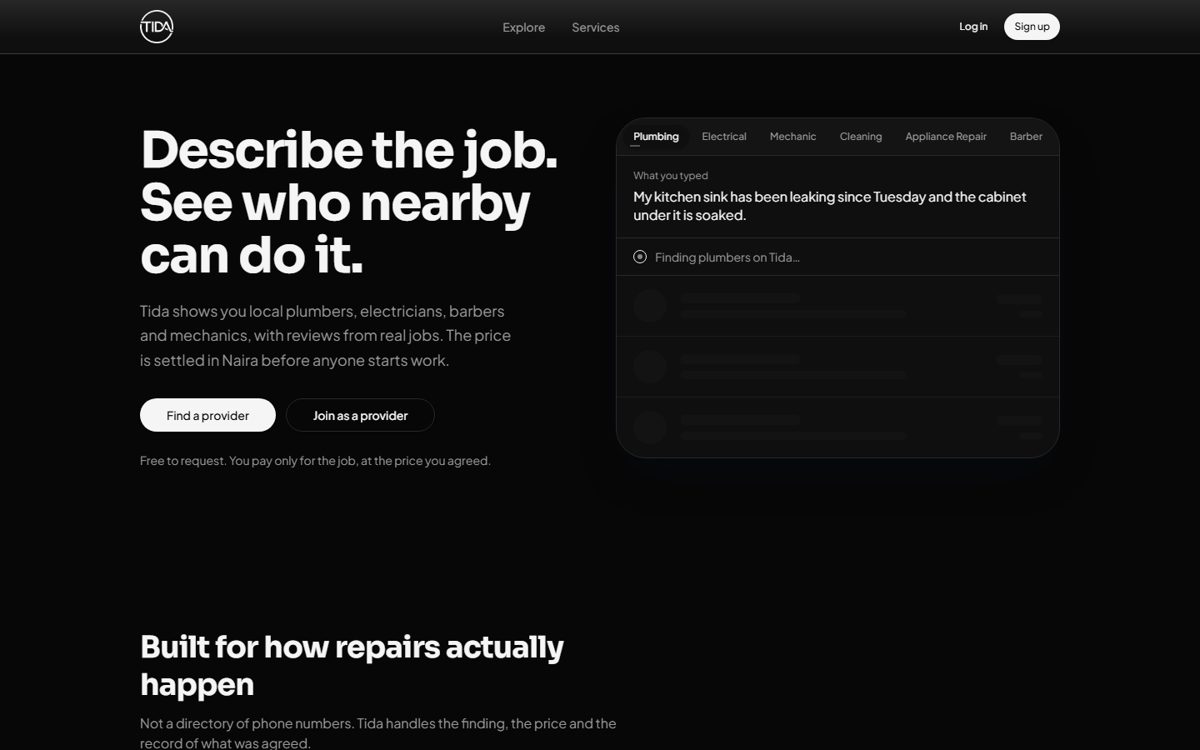
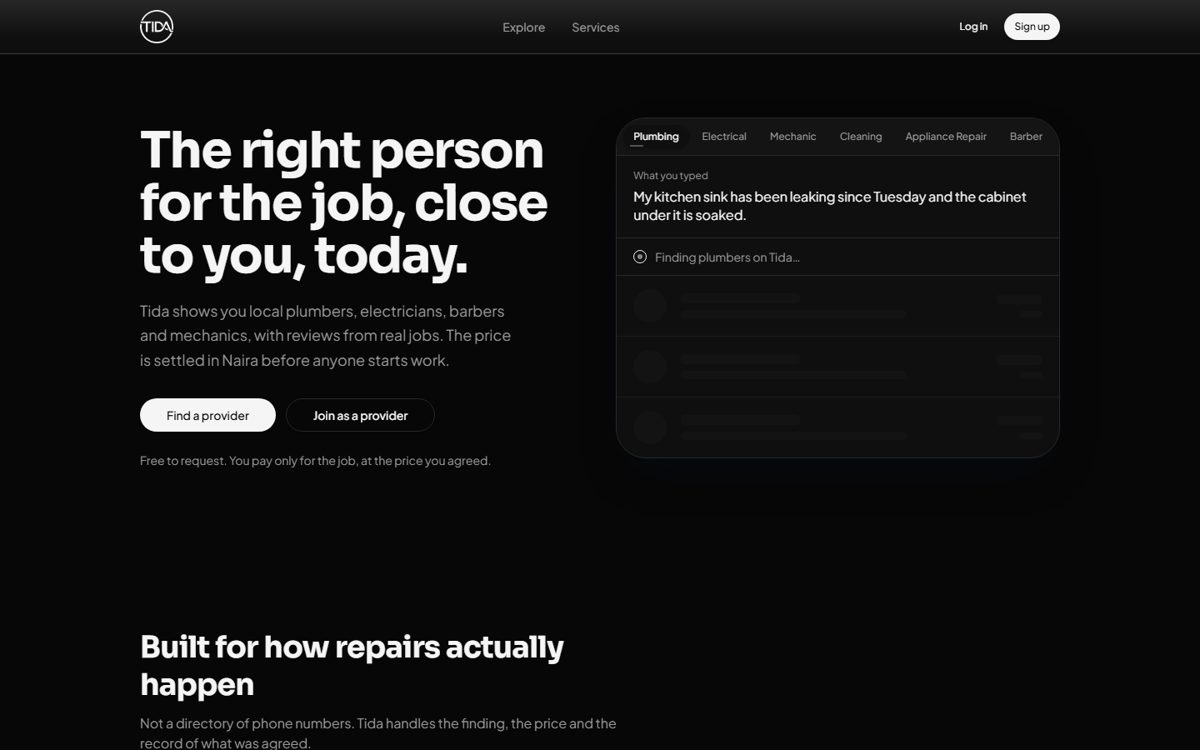
Sync Tida tagline and screenshot

Changed region(s): [[0.0925, 0.1533, 0.4625, 0.3987]]

diff --git a/src/data/projects.ts b/src/data/projects.ts
@@ -23,7 +23,7 @@ export const projects: Project[] = [
     slug: "tida",
     title: "Tida",
     date: "Aug 2026",
-    tagline: "Describe the job. See who nearby can do it.",
+    tagline: "The right person for the job, close to you, today.",
     description:
       "A local services marketplace for Nigeria. You type what you need in plain words — \"a haircut at home before a wedding on Sunday\" — and Tida shows plumbers, electricians, barbers and mechanics near you with reviews from real jobs, priced in Naira before anyone starts work.",
     tags: ["Marketplace", "Web + Android"],
